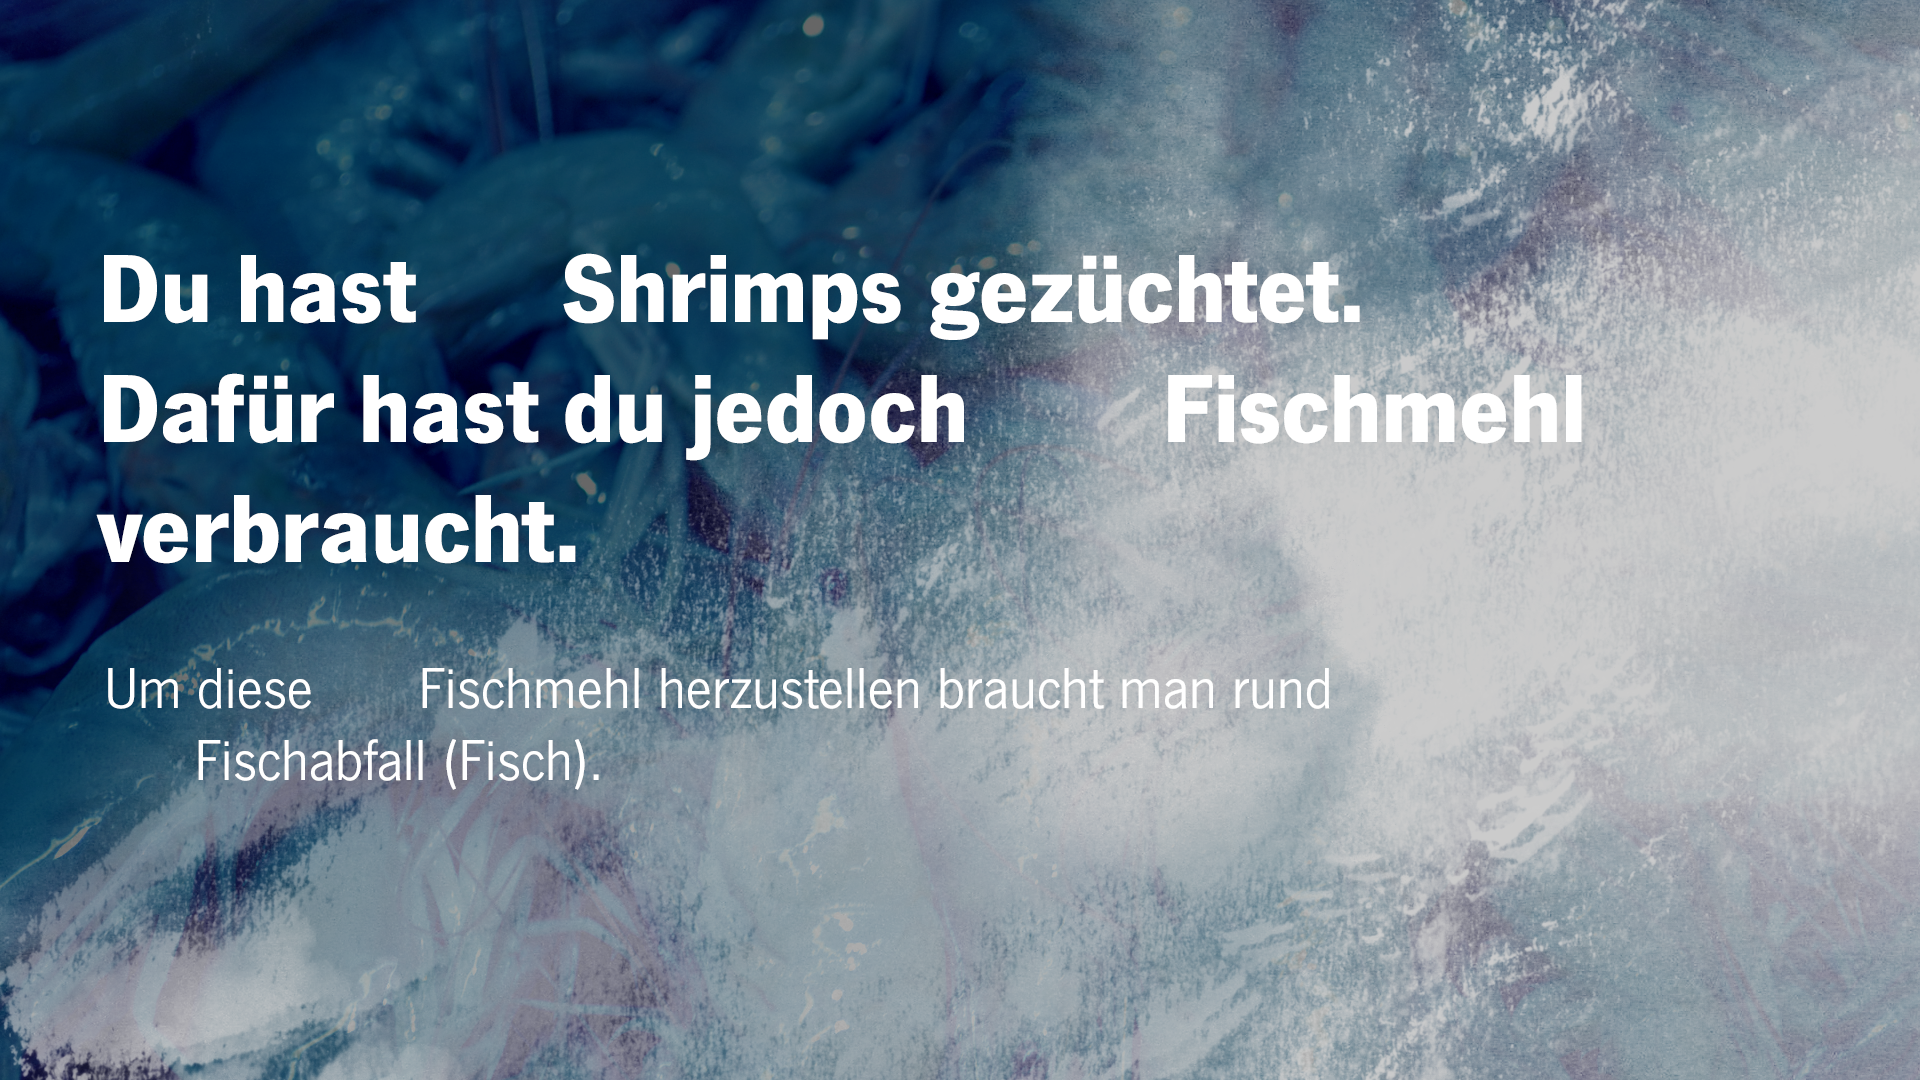
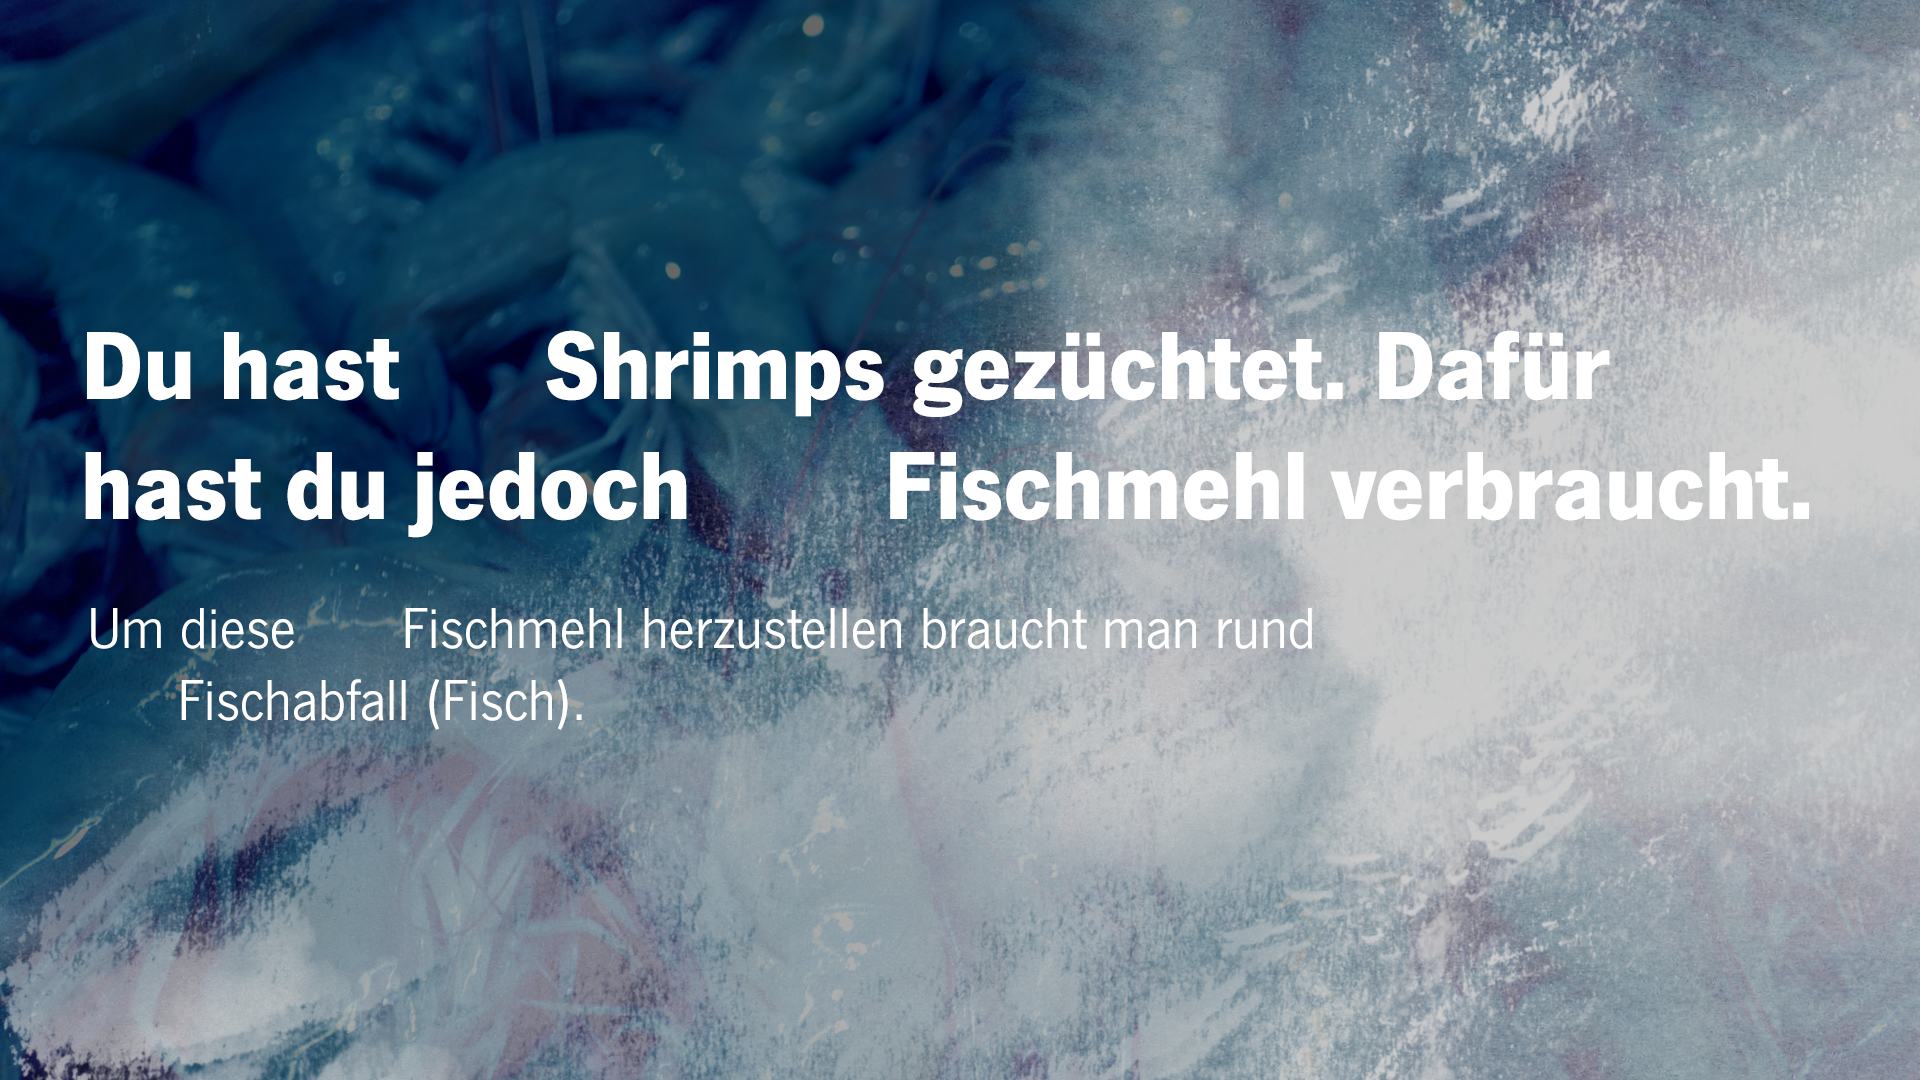
story amount counter changed - > not finished !!!

Changed region(s): [[0.0312, 0.2139, 0.9375, 0.5194], [0.0312, 0.55, 0.6875, 0.7333]]

diff --git a/src/trxStoryHandler.cpp b/src/trxStoryHandler.cpp
@@ -26,6 +26,19 @@ trxStoryHandler::trxStoryHandler() {
     numberFontSmall.setLineHeight(64);
     numberFontSmall.setLetterSpacing(1.037);
     
+    
+    taskFontBig.loadFont("fonts/NewsGot-Med.otf", 36,true,true);
+    taskFontBig.setLineHeight(40);
+    taskFontBig.setLetterSpacing(1.037);
+    
+    taskFontSmall.loadFont("fonts/NewsGot-Reg.otf", 24,true,true);
+    taskFontSmall.setLineHeight(28);
+    taskFontSmall.setLetterSpacing(1.037);
+    
+    netIcon.loadImage("actionIcons/Fangen.png");
+    longlineIcon.loadImage("actionIcons/Langleine.png");
+    
+    
     message_edge_topright.loadImage("message_background/edge_topright.png");
     message_edge_topleft.loadImage("message_background/edge_topleft.png");
     message_edge_bottomright.loadImage("message_background/edge_bottomright.png");
@@ -123,6 +136,11 @@ void trxStoryHandler::stopStory(){
         bycatchQuantity = 0;
         finishedCatchedQuantity = 0;
         
+        
+        weightBycatchQuantity = 0;
+        weightcatchedQuantity = 0;
+        weightFinishedCatchedQuantity = 0;
+        
         tempBycatchQuantity = 0;
         tempCatchedQuantity = 0;
         
@@ -140,6 +158,7 @@ void trxStoryHandler::stopStory(){
 void trxStoryHandler::update()
 {
     int onWayQuantity = 0;
+    float aquaCulturPercent = 0.1;
     updateMyLastTargetScreenPosition();
     if (myActiveStory) {
         if (myActiveTask) {
@@ -150,18 +169,24 @@ void trxStoryHandler::update()
                     if(myActiveTask->dieAfterCatch) {
                         for (int i=0; i<activeFlock.size(); i++) {
                             catchedQuantity += activeFlock.at(i)->countDead();
+                            weightcatchedQuantity = catchedQuantity*activeFlock.at(i)->weight;
+                            finishedCatchedQuantity += (activeFlock.at(i)->countDead())*aquaCulturPercent;
+                            weightFinishedCatchedQuantity += (activeFlock.at(i)->countDead())*aquaCulturPercent*activeFlock.at(i)->weight;
                             activeFlock.at(i)->removeDeadBoids();
                         }
                     }
                     else{
                         for (int i=0; i<activeFlock.size(); i++) {
                             catchedQuantity = activeFlock.at(i)->countDead();
+                            weightcatchedQuantity = catchedQuantity*activeFlock.at(i)->weight;
+                            
                         }
                     }
                     if(activeBycatchFlock.size()>0){
                         for (int i=0; i<activeBycatchFlock.size(); i++) {
                             bycatchQuantity += activeBycatchFlock.at(i)->countDead();
                             activeBycatchFlock.at(i)->removeDeadBoids();
+                            weightBycatchQuantity = bycatchQuantity * activeBycatchFlock.at(i)->weight;
                         }
                     }
                     for (int i=0; i<activeFlock.size(); i++) {
@@ -176,9 +201,16 @@ void trxStoryHandler::update()
                         int lastCatchedQuantity = catchedQuantity;
                         for (int i=0; i<activeFlock.size(); i++) {
                             tempCatchedQuantity += activeFlock.at(i)->countDead();
+                            
+                            
                         }
                         catchedQuantity = int((tempCatchedQuantity/100.0 * myActiveTask->percent) +0.5);
+                        weightcatchedQuantity = catchedQuantity*activeFlock.at(0)->weight;
+                        
+                        
+                        
                         bycatchQuantity = tempCatchedQuantity-catchedQuantity;
+                        weightBycatchQuantity = bycatchQuantity * activeFlock.at(1)->weight;
                         
                         for (int i=0; i<activeFlock.size(); i++) {
                             activeFlock.at(i)->removeDeadBoids();
@@ -193,11 +225,13 @@ void trxStoryHandler::update()
                         catchedQuantity = 0;
                         for (int i=0; i<activeFlock.size(); i++) {
                             catchedQuantity += activeFlock.at(i)->countDead();
+                            weightcatchedQuantity = catchedQuantity*activeFlock.at(i)->weight;
                         }
                     }
                     if(activeBycatchFlock.size()>0){
                         for (int i=0; i<activeBycatchFlock.size(); i++) {
                             bycatchQuantity += activeBycatchFlock.at(i)->countDead();
+                            weightBycatchQuantity = bycatchQuantity * activeBycatchFlock.at(i)->weight;
                             activeBycatchFlock.at(i)->removeDeadBoids();
                         }
                     }
@@ -209,6 +243,8 @@ void trxStoryHandler::update()
                     }
                 }
             }
+    
+            
         }
         else {
             if (!showMessage) {
@@ -254,6 +290,7 @@ trxStoryHandler::task * trxStoryHandler::nextTask(){
         int newNo = myActiveTask->no + 1;
         
         finishedCatchedQuantity = catchedQuantity;
+        weightFinishedCatchedQuantity = weightcatchedQuantity;
         catchedQuantity = 0;
         tempCatchedQuantity = 0;
         bycatchQuantity = 0;
@@ -294,7 +331,9 @@ void trxStoryHandler::draw(){
             ofPushMatrix();
             ofPushStyle();
             ofTranslate(activeConverter->position.x,activeConverter->position.y);
+            
             ofRotate(activeConnection->myConverter->rotation);
+            drawTaskMessage(myActiveTask->taskMessage);
             ofSetColor(255, 255, 255);
             float maxAmplitude = 5.0;
             ofVec3f randomWiggle = ofVec3f(ofSignedNoise(ofGetElapsedTimef()),ofSignedNoise(ofGetElapsedTimef()),0)*maxAmplitude;
@@ -332,9 +371,10 @@ void trxStoryHandler::draw(){
                 }
 
             }            
-            ofTranslate(0, -80);
-            drawTaskMessage(myActiveTask->taskMessage);
+            ofTranslate(0, 0);
+            
             ofPopMatrix();
+            
             ofPopStyle();
             if (myActiveTask->finished) {
                 //drawMessage("Task Finished Message");
@@ -349,7 +389,7 @@ void trxStoryHandler::draw(){
     myFloatingMessageController.draw();
     
     if (showFingerHint) {
-        fingerHint.draw();
+       // fingerHint.draw();
     }
     
     /*
@@ -388,7 +428,31 @@ void trxStoryHandler::drawDebug()
 void trxStoryHandler::drawTaskMessage(string _message){
     ofPushStyle();
     ofSetColor(255, 255, 255);
-    HelveticaNeueRoman18.drawString(_message, 0, 0);
+    
+    string amount = "Gefangene Menge: ";
+    amount += ofToString(weightcatchedQuantity)+"t";
+    if (myActiveTask->no == 1) {
+        amount = "Produzierte Menge: ";
+        amount += ofToString(weightFinishedCatchedQuantity)+"t";
+    }
+    
+    
+    
+    
+    
+    ofRectangle bounds = taskFontBig.getStringBoundingBox(_message, 0, 0);
+    ofEnableAlphaBlending();
+    
+    if (myActiveTask->harvester == "longline") {
+        longlineIcon.draw(-(bounds.width+ 100.0f)-60,-25, 60, 60);
+    }
+    else {
+        netIcon.draw(-(bounds.width+ 100.0f)-60,-25, 60, 60);
+    }
+    ofDisableAlphaBlending();
+    taskFontBig.drawString(_message, -(bounds.width+ 100.0f), 0);
+    taskFontSmall.drawString(amount, -(bounds.width+ 100.0f), 30.0);
+    
     ofPopStyle();
 }
 
@@ -481,12 +545,21 @@ void trxStoryHandler::drawWinscreen(){
             case 2:
                 number = finishedCatchedQuantity;
                 break;
+            case 3:
+                number = weightcatchedQuantity;
+                break;
+            case 4:
+                number = weightBycatchQuantity;
+                break;
+            case 5:
+                number = weightFinishedCatchedQuantity;
+                break;
             default:
                 number = catchedQuantity;
                 break;
         }
         
-        textNumber = ofToString(number * tmpFactN.multiplier,0);
+        textNumber = ofToString(number * tmpFactN.multiplier,tmpFactN.presicion) + tmpFactN.unit;
         
         switch (tmpFactN.fontSize) {
             case 100:
@@ -661,6 +734,8 @@ void trxStoryHandler::generateStories(){
             thisFactNumber.number = xml.getIntValue(0, "number");
             thisFactNumber.multiplier = xml.getFloatValue(1.0, "multiplier");
             thisFactNumber.fontSize = xml.getIntValue(100, "fontSize");
+            thisFactNumber.unit = xml.getString("", "unit");
+            thisFactNumber.presicion = xml.getIntValue(0, "presicion");
             thisStory.factNumbers.push_back(thisFactNumber);
             xml.XML.popTag();
         }
@@ -772,8 +847,11 @@ void trxStoryHandler::updateMyLastTargetScreenPosition()
 }
 
 void trxStoryHandler::changeAction(int _actionNumber){
-    int currentAction = myActiveTask->no*2+_actionNumber;
-    myOsc.sendOscAction(currentAction);
+    if (myActiveTask) {
+        int currentAction = myActiveTask->no*2+_actionNumber;
+        myOsc.sendOscAction(currentAction);
+    }
+    
 }
 
 void trxStoryHandler::changeTopic(int _topicNumber){

diff --git a/src/trxStoryHandler.h b/src/trxStoryHandler.h
@@ -30,6 +30,8 @@ class trxStoryHandler {
         int number = 0;
         float multiplier = 1.0;
         int fontSize = 100;
+        string unit = "";
+        int presicion = 0;
         
         
     };
@@ -76,6 +78,13 @@ class trxStoryHandler {
     ofTrueTypeFont numberFontBig;
     ofTrueTypeFont numberFontSmall;
     
+    ofTrueTypeFont taskFontBig;
+    ofTrueTypeFont taskFontSmall;
+    
+    
+    ofImage netIcon;
+    ofImage longlineIcon;
+    
     trxConnectionSlot* activeConnection = NULL;
     vector<trxFlock*> activeFlock;
     vector<trxFlock*> activeBycatchFlock;
@@ -90,10 +99,18 @@ class trxStoryHandler {
     ofVec3f myLastScreenTargetPosition;
     ofVec3f myScreenTargetMovement;
     
-    int catchedQuantity = 0;
-    int finishedCatchedQuantity = 0;
-    int tempCatchedQuantity = 0;
+    float catchedQuantity = 0;
+    float finishedCatchedQuantity = 0;
+    
+    float weightcatchedQuantity = 0.0f;
+    float weightFinishedCatchedQuantity = 0.0f;
+    
     int bycatchQuantity = 0;
+    float weightBycatchQuantity = 0.0f;
+    
+    
+    int tempCatchedQuantity = 0;
+    
     int tempBycatchQuantity = 0;
     
     bool showMessage = false;

diff --git a/src/trxObject.cpp b/src/trxObject.cpp
@@ -45,7 +45,11 @@ void trxObject::draw(){
         ofSetColor(255, 255, 255,255);
         //ofNoFill();
         if (isActiveConnection) {
-            glow.draw(-glow.width/2,-glow.height/2,glow.width,glow.height);
+            glow.draw(-radius*2,-radius*2,radius*4,radius*4);
+        }
+        else {
+            ofSetColor(255, 255, 255,50);
+            glow.draw(-radius*2,-radius*2,radius*4,radius*4);
         }
         
         ofSetColor(255, 255, 255,100);

diff --git a/src/trxObjectHandler.cpp b/src/trxObjectHandler.cpp
@@ -306,6 +306,8 @@ void trxObjectHandler::generateObjects()
             thisFlock->fleeFromHarvester = ( fleeBool !=0);
             thisFlock->fleeSpeed = xml.getFloatValue(8.0, "fleeSpeed");
             
+            thisFlock->weight = xml.getFloatValue(1.0, "weight");
+            
             // jellyishSettings
             int jellyBool = xml.getIntValue(0, "isJellyFish");
             thisFlock->isJellyFish =  (jellyBool !=0);

diff --git a/src/trxVehicle.cpp b/src/trxVehicle.cpp
@@ -137,6 +137,9 @@ void trxVehicle::isCaughtAt(ofVec3f _target){
     // generate path
     
     maxSpeed = 4.0f;
+    if (onWay){
+        maxSpeed = 8.0f;
+    }
     //tooCloseDist = 1.0f;
     wanderDistance = 0.5f;
     

diff --git a/src/trxFlock.h b/src/trxFlock.h
@@ -32,6 +32,8 @@ public:
     float length;
     int numberOfBones;
     
+    float weight = 1.0;
+    
     bool fleeFromHarvester = true;
     float fleeSpeed = 8.0;
     
